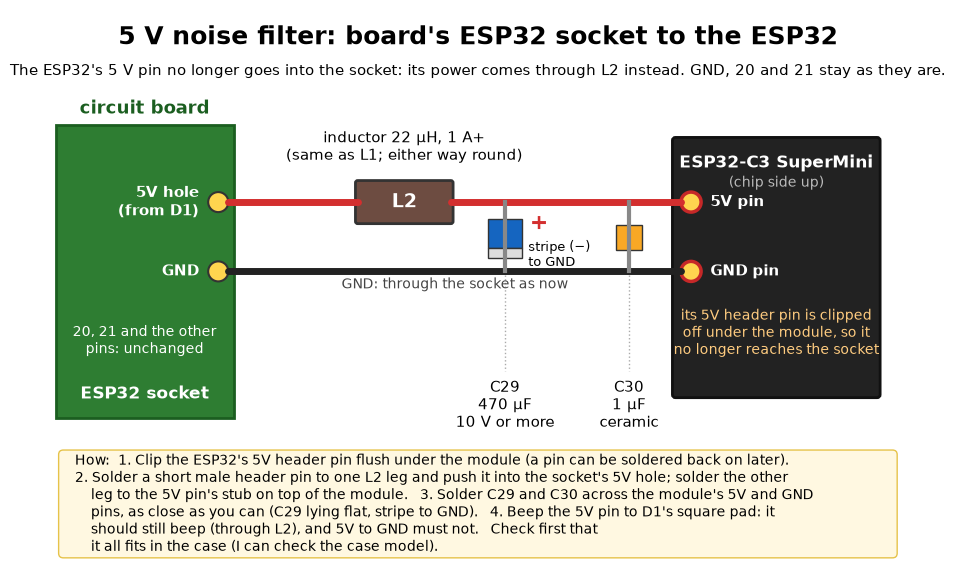
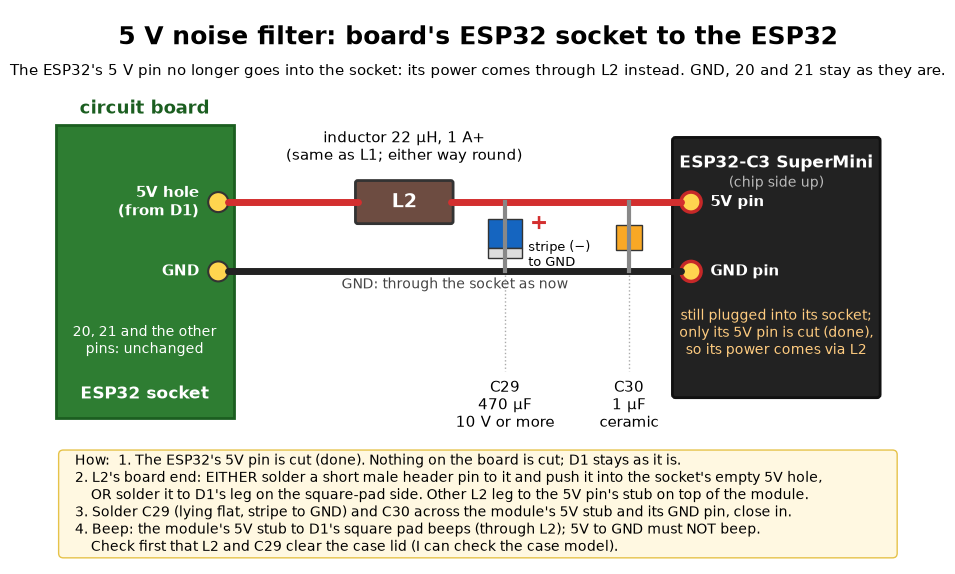
Picture: ESP32 5 V filter, 5V pin already cut, nothing cut on the board

Changed region(s): [[0.0911, 0.77, 0.8503, 0.9774], [0.6984, 0.5331, 0.911, 0.622]]

diff --git a/pictures/esp_filter.py b/pictures/esp_filter.py
@@ -30,7 +30,7 @@ ax.text(960, 230, "(chip side up)", ha="center", color="#bbb", fontsize=10)
 for y, lab in ((250, "5V pin"), (340, "GND pin")):
     ax.add_patch(Circle((850, y), 13, fc="#ffd54f", ec="#c62828", lw=2.5))
     ax.text(875, y, lab, va="center", color="white", fontsize=11, weight="bold")
-ax.text(960, 420, "its 5V header pin is clipped\noff under the module, so it\nno longer reaches the socket",
+ax.text(960, 420, "still plugged into its socket;\nonly its 5V pin is cut (done),\nso its power comes via L2",
         ha="center", va="center", color="#ffcc80", fontsize=10)
 
 # 5 V path through the inductor
@@ -57,11 +57,12 @@ for x, (fc, top, lab) in ((610, ("#1565c0", "C29", "470 µF\n10 V or more")), (7
     ax.text(x, 480, top + "\n" + lab, ha="center", va="top", fontsize=10.5)
 
 # how-to box
-steps = ("How:  1. Clip the ESP32's 5V header pin flush under the module (a pin can be soldered back on later).\n"
-         "2. Solder a short male header pin to one L2 leg and push it into the socket's 5V hole; solder the other\n"
-         "    leg to the 5V pin's stub on top of the module.   3. Solder C29 and C30 across the module's 5V and GND\n"
-         "    pins, as close as you can (C29 lying flat, stripe to GND).   4. Beep the 5V pin to D1's square pad: it\n"
-         "    should still beep (through L2), and 5V to GND must not.   Check first that\n    it all fits in the case (I can check the case model).")
+steps = ("How:  1. The ESP32's 5V pin is cut (done). Nothing on the board is cut; D1 stays as it is.\n"
+         "2. L2's board end: EITHER solder a short male header pin to it and push it into the socket's empty 5V hole,\n"
+         "    OR solder it to D1's leg on the square-pad side. Other L2 leg to the 5V pin's stub on top of the module.\n"
+         "3. Solder C29 (lying flat, stripe to GND) and C30 across the module's 5V stub and its GND pin, close in.\n"
+         "4. Beep: the module's 5V stub to D1's square pad beeps (through L2); 5V to GND must NOT beep.\n"
+         "    Check first that L2 and C29 clear the case lid (I can check the case model).")
 ax.add_patch(FancyBboxPatch((40, 578), 1070, 128, boxstyle="round,pad=6", fc="#fff8e1", ec="#e6c34a"))
 ax.text(55, 642, steps, va="center", fontsize=10.2, family="DejaVu Sans")
 
